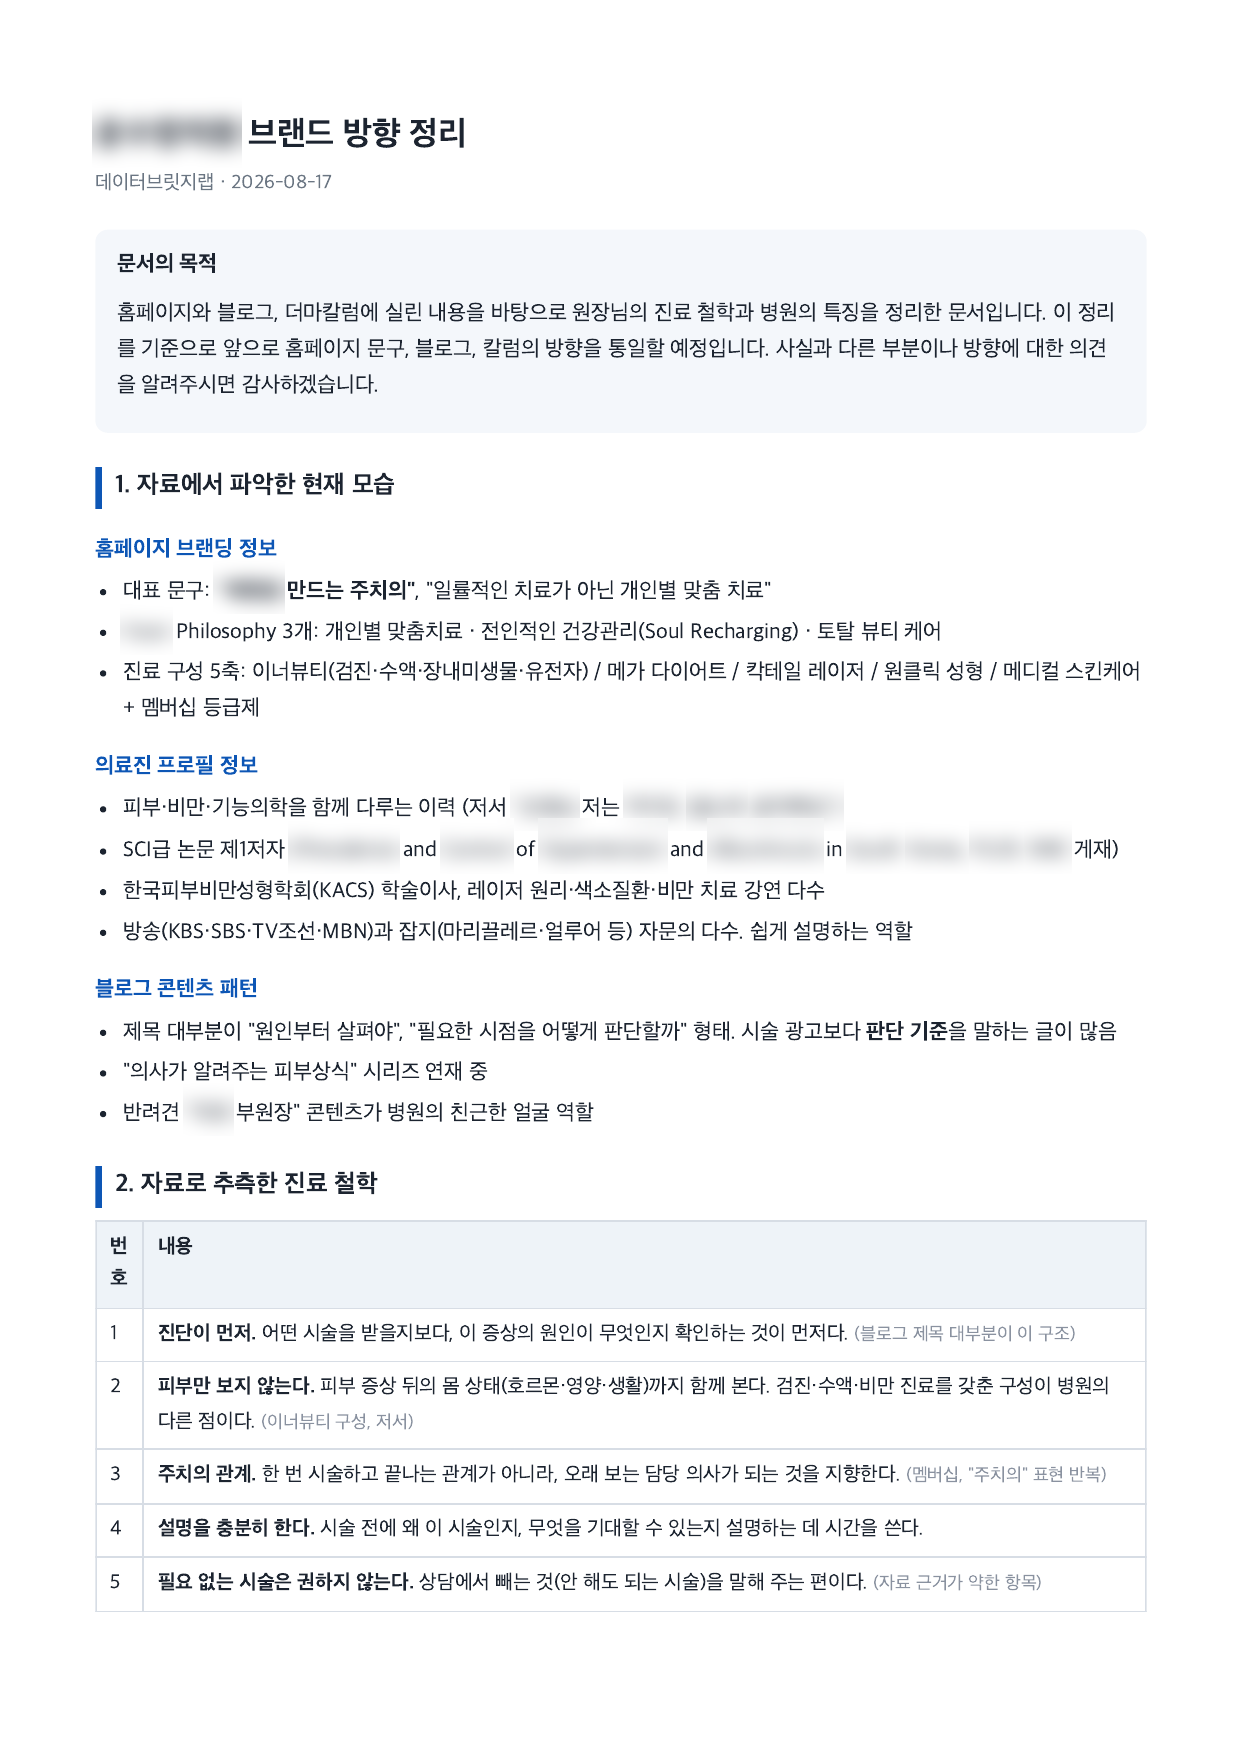
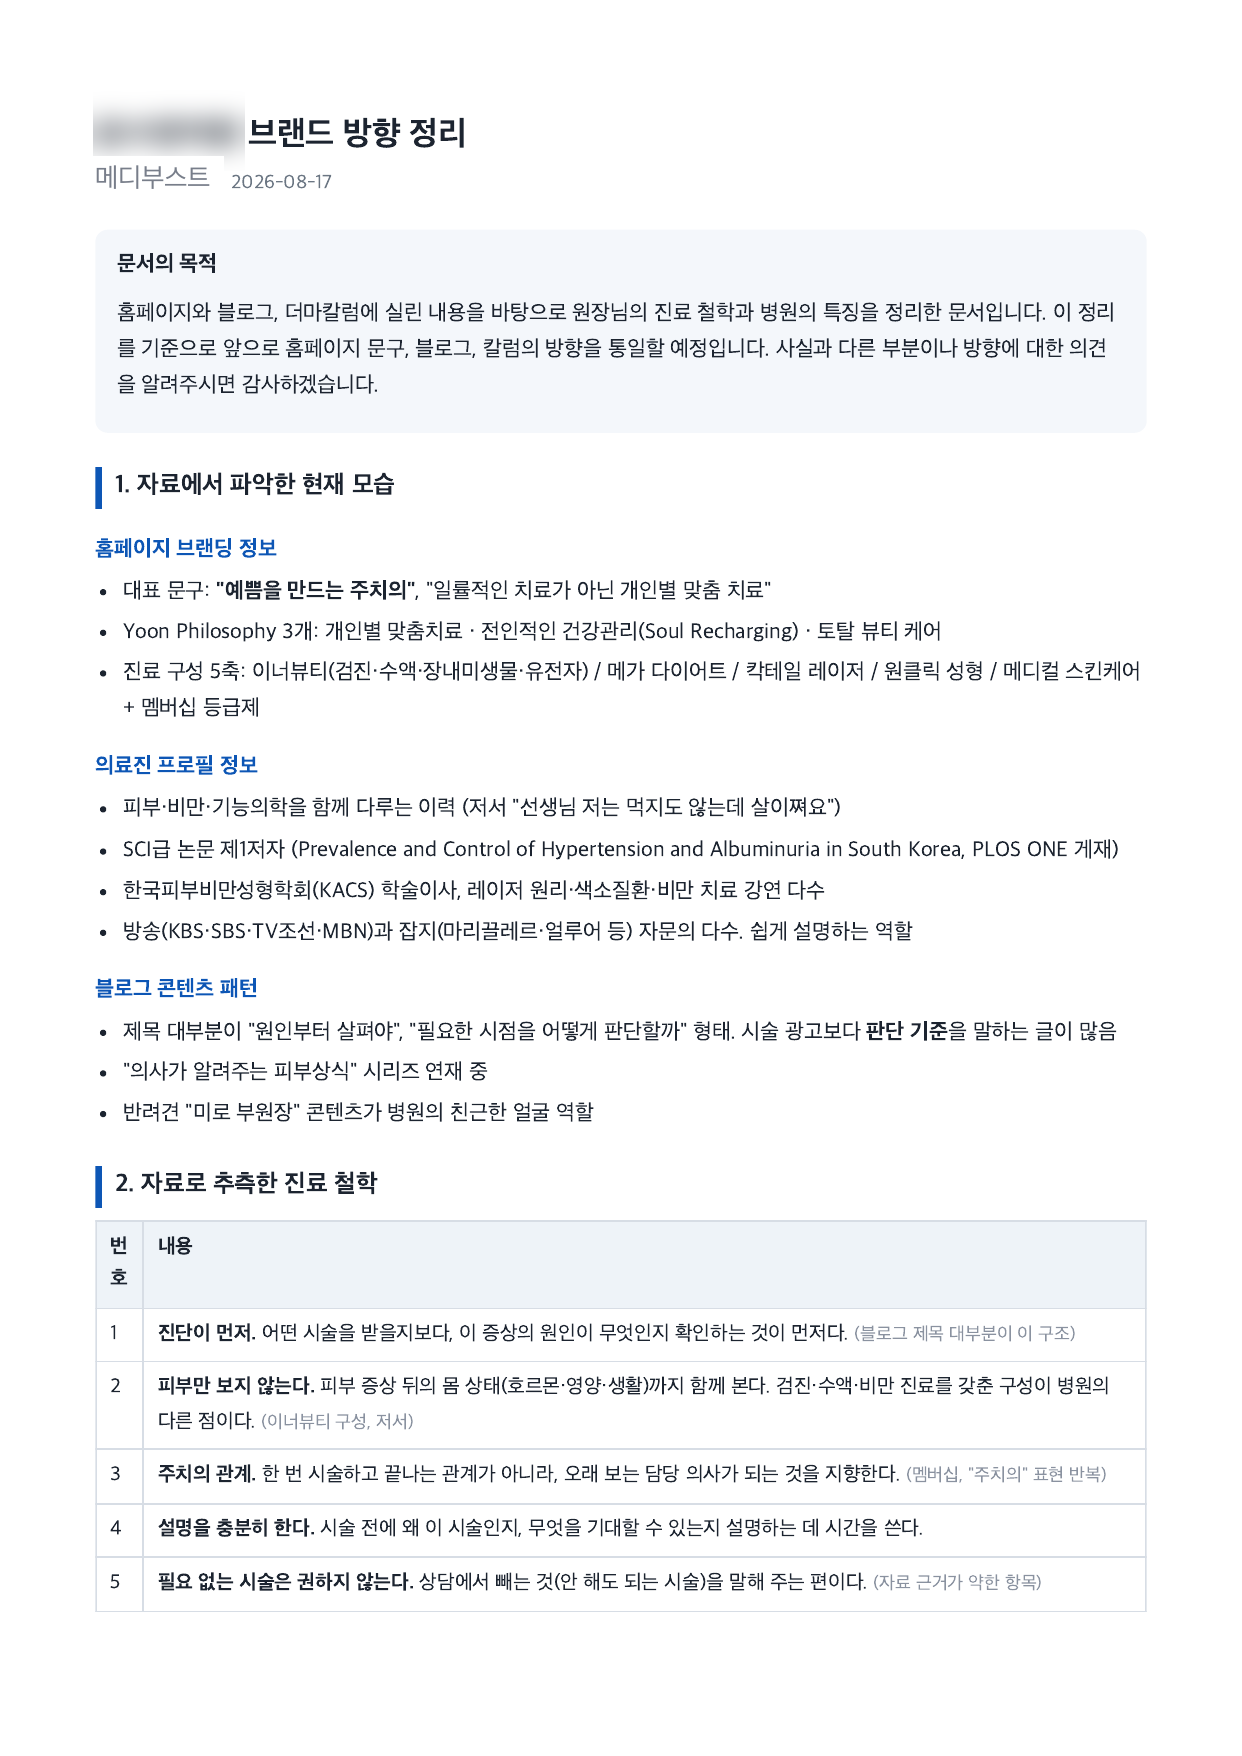
영문 전후 캡처 마스킹 보강 · 레이아웃 정리
- BEFORE: 지역명(Isu Station) · 실제 전화번호까지 치환
- AFTER: YOON CLINIC 로고 텍스트 → KClinic, 전화 0000, 로고 블러
- 이미지 영역 확대 유지, 하단 비교 블록 고정 높이로
- 브랜드 방향 문서 캡처의 작성 주체를 메디부스트로 교체
- 레딧 답변 카드 영어화 · D-60 '발주 전 준비'

diff --git a/index.html b/index.html
@@ -2103,20 +2103,20 @@
     <span class="eyebrow accent">영문 사이트도 같은 문제</span>
     <h2>관리되지 않던 영문 사이트 · 전후</h2>
     <p class="rsub">의사 정보가 없진 않았지만, 깨진 시술 페이지와 오류 난 구조가 방치된 상태였습니다</p>
-    <div class="ev two">
+    <div class="ev two" style="flex:1;min-height:0">
       <div class="evshot"><div class="eh"><b>기존</b> · 방치된 시술 페이지 · 범용 문구<span class="src">업체명 가림</span></div>
         <figure><img src="assets/work/before-broken.png" alt="기존 영문 시술 페이지" /></figure></div>
       <div class="evshot"><div class="eh"><b>신규</b> · 질문 단위 페이지 · 구조화 데이터<span class="src">병원명 가림</span></div>
         <figure><img src="assets/work/after-content.png" alt="신규 영문 사이트" /></figure></div>
     </div>
-    <div class="cmp" style="margin-top:12px">
-      <div class="col bad"><ul style="margin-top:0">
-        <li><i class="mk x">✕</i><span>업데이트 안 된 시술 페이지 · 깨진 링크</span></li>
-        <li><i class="mk x">✕</i><span>오류 난 구조화 데이터 · 죽은 사이트맵</span></li>
+    <div class="cmp" style="margin-top:10px;flex:0 0 auto">
+      <div class="col bad" style="padding:14px 18px"><ul style="margin-top:0;gap:6px">
+        <li style="font-size:13.5px"><i class="mk x">✕</i><span>업데이트 안 된 시술 페이지 · 깨진 링크</span></li>
+        <li style="font-size:13.5px"><i class="mk x">✕</i><span>오류 난 구조화 데이터 · 죽은 사이트맵</span></li>
       </ul></div>
-      <div class="col"><ul style="margin-top:0">
-        <li><i class="mk o">·</i><span>질문 단위 페이지 · 원장 실명 · 자격 첫 화면</span></li>
-        <li><i class="mk o">·</i><span>구조화 데이터 정상 · 콘텐츠 저작권 병원 귀속</span></li>
+      <div class="col" style="padding:14px 18px"><ul style="margin-top:0;gap:6px">
+        <li style="font-size:13.5px"><i class="mk o">·</i><span>질문 단위 페이지 · 원장 실명 · 자격 첫 화면</span></li>
+        <li style="font-size:13.5px"><i class="mk o">·</i><span>구조화 데이터 정상 · 콘텐츠 저작권 병원 귀속</span></li>
       </ul></div>
     </div>
   </section>
@@ -2128,14 +2128,14 @@
     <div class="ev two">
       <div class="shot"><div class="bar"><i></i><i></i><i></i><img src="assets/logos/reddit.svg" style="width:15px;height:15px;margin-left:4px" alt="Reddit" /><span class="u">reddit.com/r/Living_in_Korea</span></div>
         <div class="aim">
-          <div class="q">GLP-1 availability — 한국에서 약값이 어떻게 되나요? (거주 외국인)</div>
-          <div class="a">병원 관계자임을 밝히고 답변 : 공개된 약값 · 여권만으로 진료 가능한 근거 · 반출 수량은 진료와 세관 규정에 따름. 미국 약값이 더 저렴한 경우도 함께 안내.</div>
+          <div class="q">GLP1 availability — what do these cost in Korea? <span style="color:var(--ink-faint);font-weight:450">(거주 외국인)</span></div>
+          <div class="a">Answered as clinic staff: public price list, passport-only consultation, export limits follow customs rules. Also noted the US can be cheaper for some doses.</div>
         </div>
       </div>
       <div class="shot"><div class="bar"><i></i><i></i><i></i><img src="assets/logos/reddit.svg" style="width:15px;height:15px;margin-left:4px" alt="Reddit" /><span class="u">reddit.com/r/KoreaSeoulBeauty</span></div>
         <div class="aim">
-          <div class="q">How can a foreigner get Wegovy or Ozempic? (서울 방문 예정자)</div>
-          <div class="a">외국인도 대면 진료 시 처방 가능 · 접수에 여권만 필요 · 두 약제의 허가 사항 차이를 정리. 외국인 처방 안내 페이지 링크 첨부.</div>
+          <div class="q">How can a foreigner get Wegovy or Ozempic? <span style="color:var(--ink-faint);font-weight:450">(서울 방문 예정자)</span></div>
+          <div class="a">Foreigners can be prescribed after an in-person consult · passport only at reception · explained how approval differs between the two drugs. Linked our foreigner guide page.</div>
         </div>
       </div>
     </div>
@@ -2178,7 +2178,7 @@
     <h2>개원 전, 이 순서로 준비</h2>
     <p class="rsub">사례 병원이 몇 달 걸린 일, 개원 전에는 며칠이면 됩니다</p>
     <div class="timeline">
-      <div class="tstep"><span class="w">D-60</span><div class="tt">발주 전 결정</div><ul><li>도메인 · 계정 병원 명의로 개설</li><li>홈페이지 업체에 기술 체크리스트 전달</li><li>원장 프로필 자료 정리 (경력 · 논문 · 기준)</li></ul></div>
+      <div class="tstep"><span class="w">D-60</span><div class="tt">발주 전 준비</div><ul><li>도메인 · 계정 병원 명의로 개설</li><li>홈페이지 업체에 기술 체크리스트 전달</li><li>원장 프로필 자료 정리 (경력 · 논문 · 기준)</li></ul></div>
       <div class="tstep"><span class="w">D-30</span><div class="tt">채널 세팅</div><ul><li>플레이스 · 구글 비즈니스 등록</li><li>서치콘솔 · 서치어드바이저 연결</li><li>진료 영역별 페이지 초안</li></ul></div>
       <div class="tstep"><span class="w">D-7</span><div class="tt">운영 준비</div><ul><li>문진표에 유입경로 항목</li><li>리뷰 응대 원칙 문서화</li><li>단골 질문 목록 → 첫 콘텐츠 주제</li></ul></div>
     </div>
